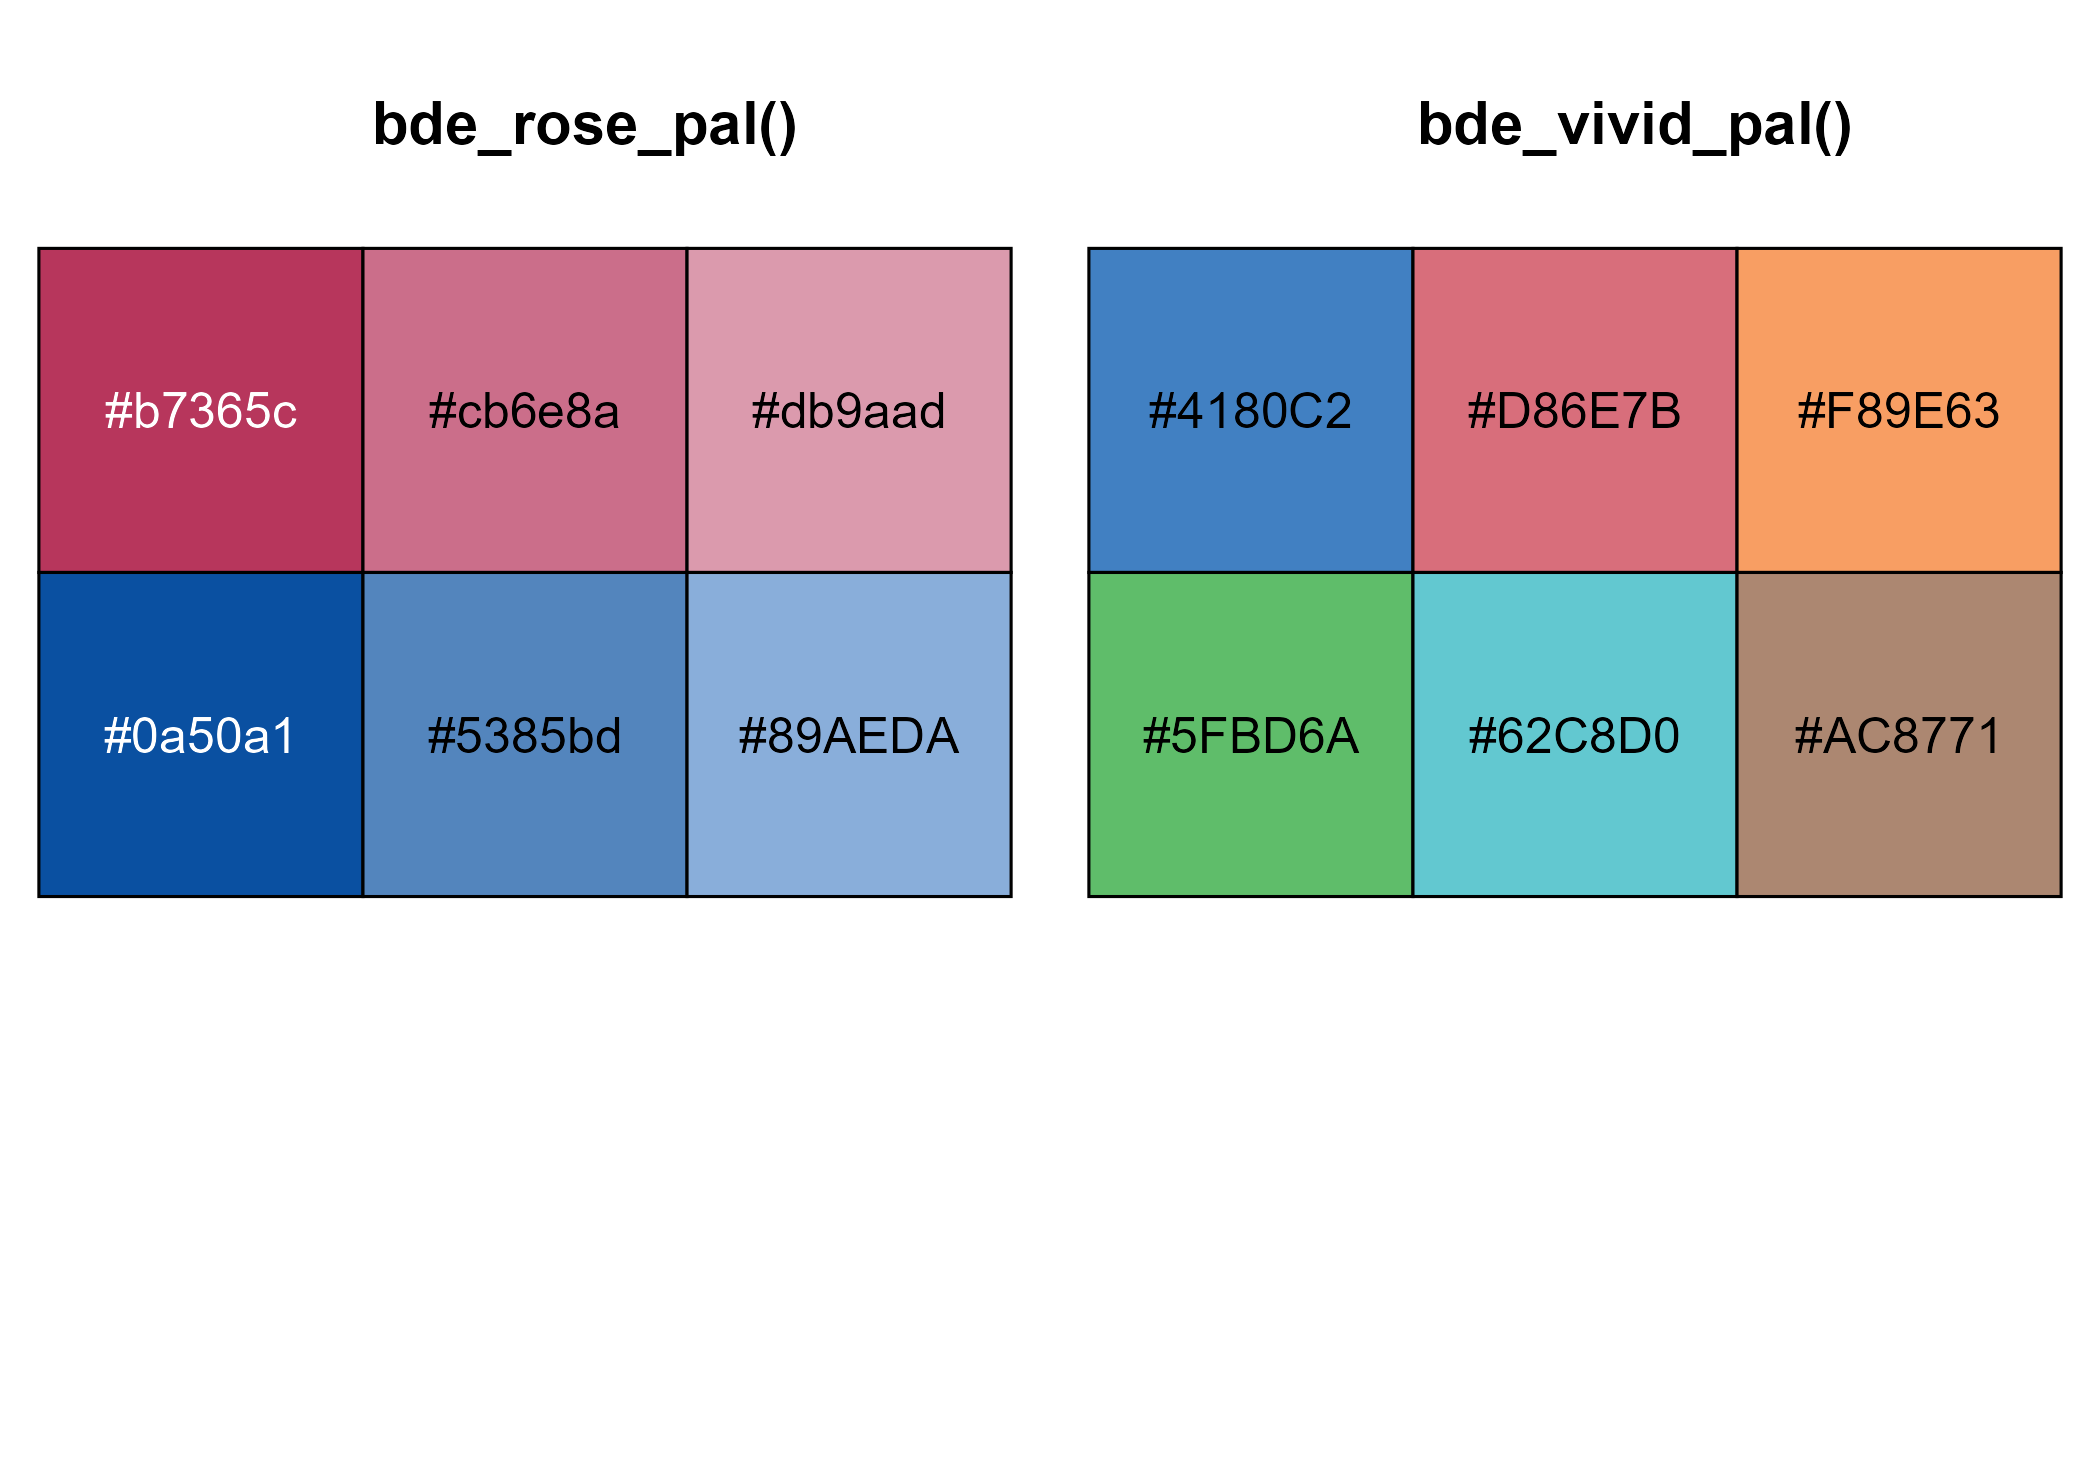
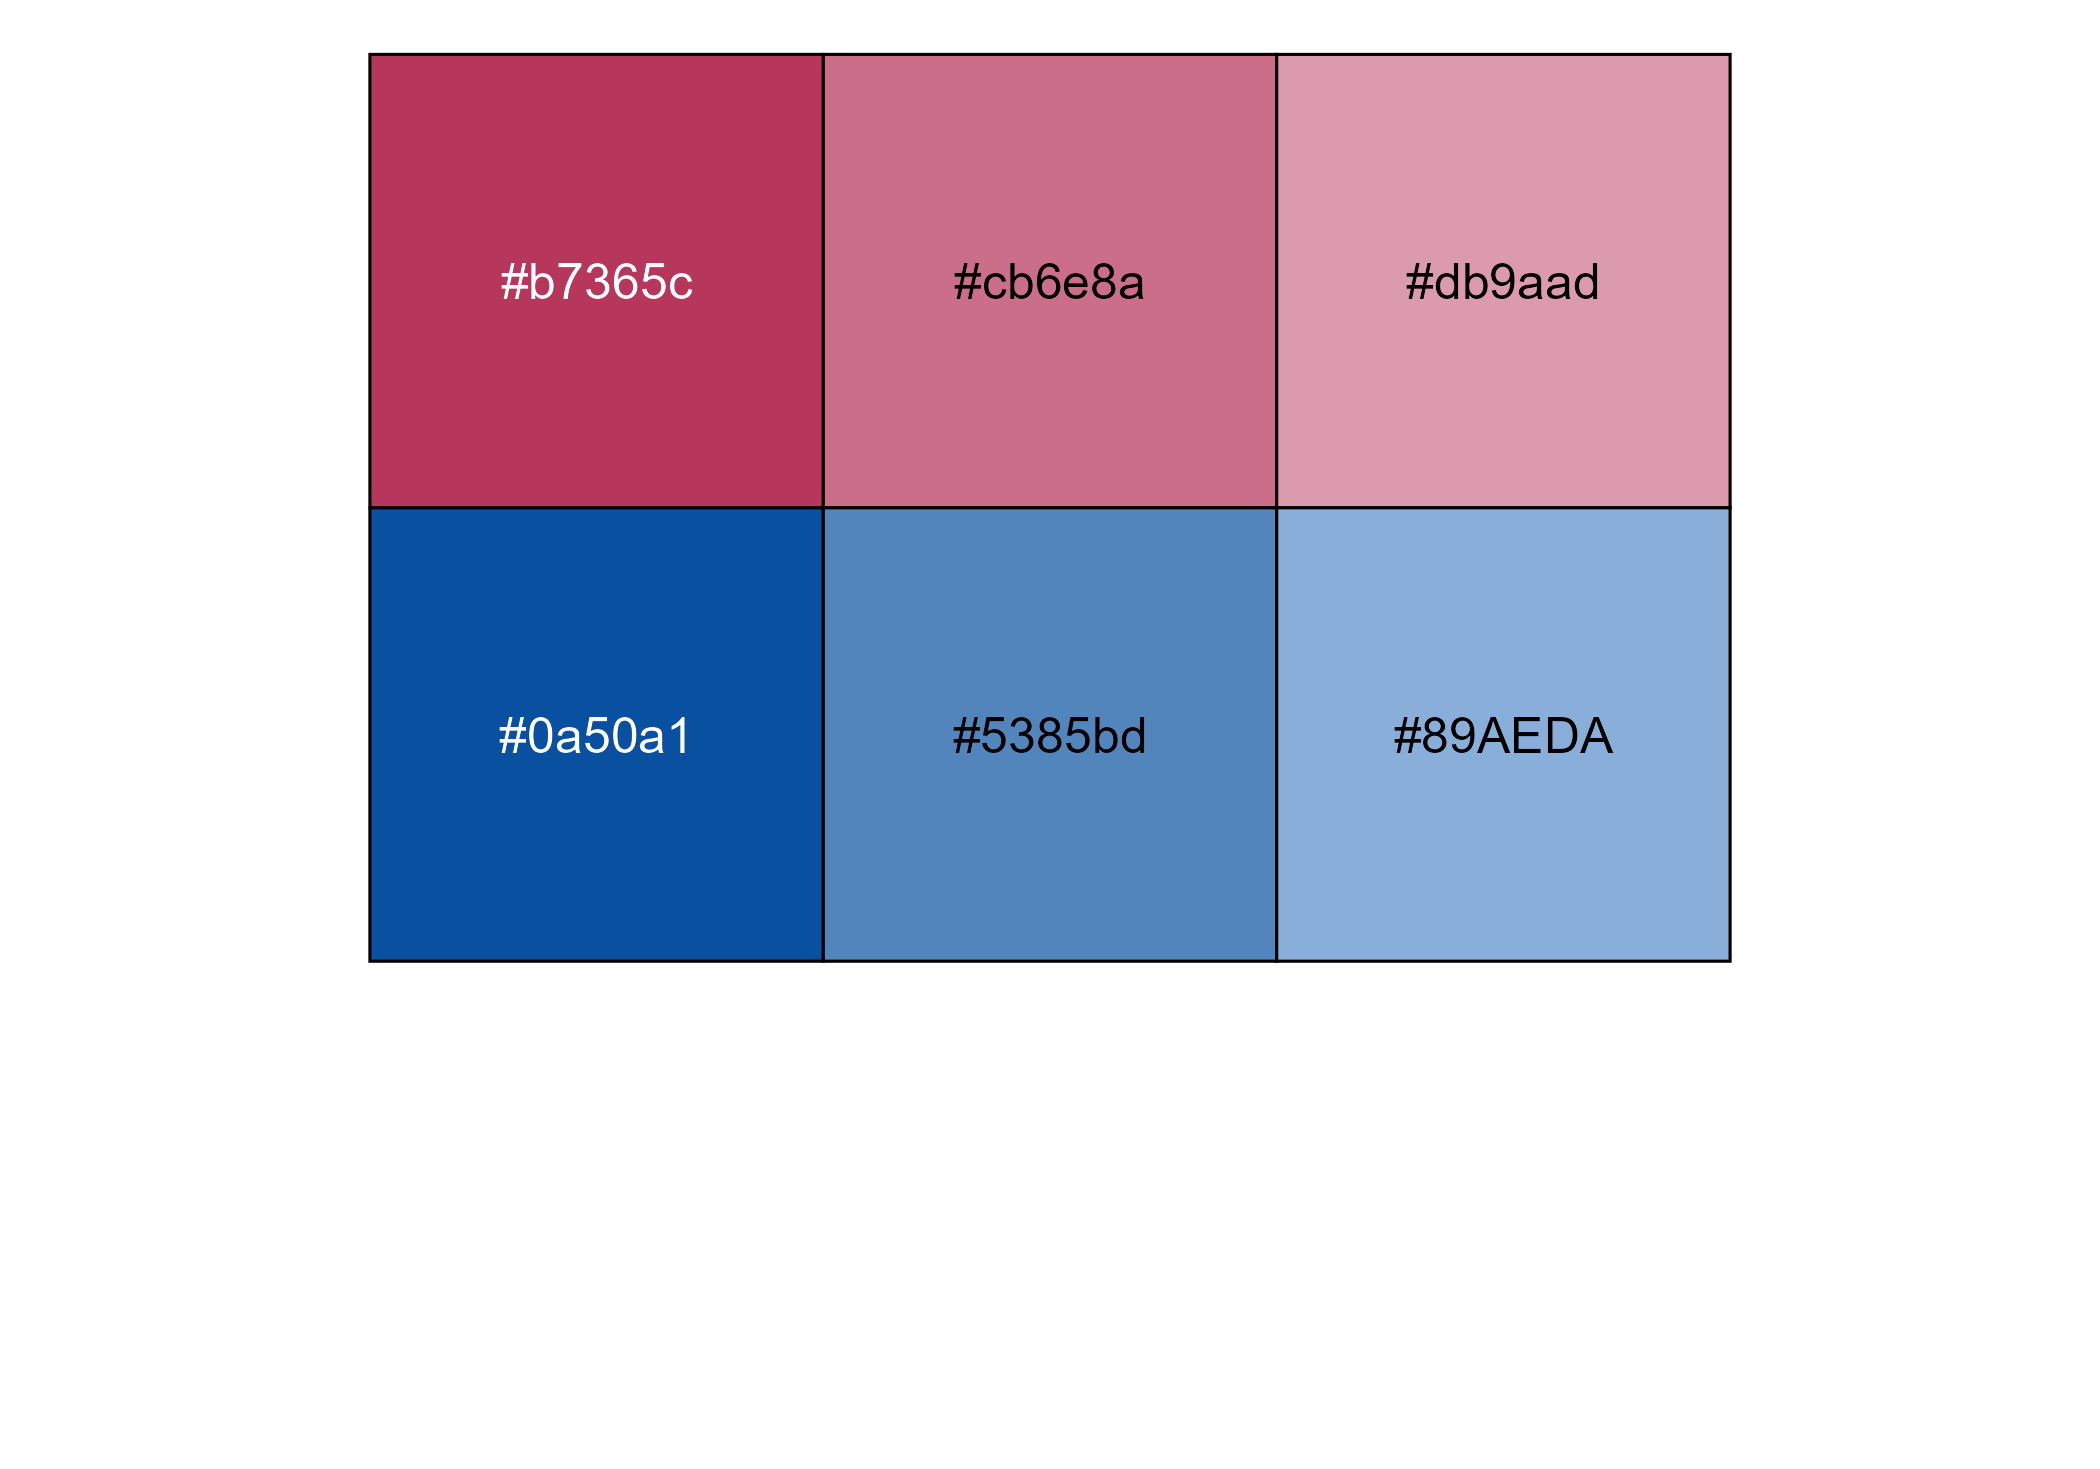
Bump version

diff --git a/README.md b/README.md
@@ -47,7 +47,6 @@ Alternatively, you can install the developing version of `tidyBdE` using
 the [r-universe](https://ropenspain.r-universe.dev/ui#builds):
 
 ``` r
-
 # Enable this universe
 options(repos = c(
   ropenspain = "https://ropenspain.r-universe.dev",
@@ -68,7 +67,6 @@ The basic entry point for searching time-series are the catalogs
 (*indexes*) of information. You can search any series by name:
 
 ``` r
-
 library(tidyBdE)
 
 # Load tidyverse for better handling
@@ -85,7 +83,7 @@ XR_GBP %>%
 ```
 
 | Numero\_secuencial | Descripcion\_de\_la\_serie                                         |
-| -----------------: | :----------------------------------------------------------------- |
+|-------------------:|:-------------------------------------------------------------------|
 |             573214 | Tipo de cambio. Libras esterlinas por euro (GBP/EUR).Datos diarios |
 
 **Note that BdE files are only provided in Spanish, for the time
@@ -97,7 +95,6 @@ exchange rate using the sequential number reference
 (`Numero_Secuencial`) as:
 
 ``` r
-
 
 seq_number <- XR_GBP %>%
   # First record
@@ -116,11 +113,12 @@ time_series <- bde_series_load(seq_number, series_label = "EUR_GBP_XR") %>%
   drop_na()
 ```
 
+### Plots
+
 The package also provides a custom `ggplot2` theme based on the
 publications of BdE:
 
 ``` r
-
 ggplot(time_series, aes(x = Date, y = EUR_GBP_XR)) +
   geom_line(colour = bde_vivid_pal()(1)) +
   geom_smooth(method = "gam", colour = bde_vivid_pal()(2)[2]) +
@@ -150,7 +148,6 @@ of the most relevant macroeconomic series, so there is no need to look
 for them in advance:
 
 ``` r
-
 gdp <- bde_ind_gdp_var("values")
 gdp$label <- "GDP YoY"
 
@@ -174,30 +171,27 @@ ggplot(plotseries, aes(x = Date, y = values)) +
 
 <img src="man/figures/README-macroseries-1.png" width="100%" />
 
+### Palettes
+
 Two custom palettes, based on the used by BdE on some publications are
 available.
 
 ``` r
 
-opar <- par(no.readonly = TRUE)
-
-par(mfrow = c(1, 2))
 scales::show_col(bde_rose_pal()(6))
-title("bde_rose_pal()")
-scales::show_col(bde_vivid_pal()(6))
-title("bde_vivid_pal()")
 ```
 
 <img src="man/figures/README-palettes-1.png" width="100%" />
 
 ``` r
-
-par(opar)
+scales::show_col(bde_vivid_pal()(6))
 ```
 
+<img src="man/figures/README-palettes-2.png" width="100%" />
+
 Those palettes can be applied to a `ggplot2` using some custom utils
-included on the package (see `help("scale_color_bde_d", package =
-"tidyBdE")`).
+included on the package (see
+`help("scale_color_bde_d", package = "tidyBdE")`).
 
 ``` r
 # Load GDP Series
@@ -296,12 +290,12 @@ bde_series_load("SOME ID", update_cache = TRUE)
 
 Other useful packages that provides access to Spanish open data:
 
-  - [**MicroDatosEs**](https://github.com/rOpenSpain/MicroDatosEs): A
+-   [**MicroDatosEs**](https://github.com/rOpenSpain/MicroDatosEs): A
     package that process microdata provided by Spanish statistical
     agencies (mostly, INE).
-  - [**CatastRo**](https://github.com/rOpenSpain/CatastRo): A package
+-   [**CatastRo**](https://github.com/rOpenSpain/CatastRo): A package
     that queries Sede electrónica del Catastro API.
-  - [**mapSpain**](https://ropenspain.github.io/mapSpain/): For
+-   [**mapSpain**](https://ropenspain.github.io/mapSpain/): For
     downloading geospatial information from Instituto Geográfico
     Nacional (IGN) and creating maps of Spain.
 
@@ -318,7 +312,7 @@ citation("tidyBdE")
 #> To cite tidyBdE in publications use:
 #> 
 #>   Herrero, D. H. (2021). tidyBdE: Download Data from Bank of Spain. R
-#>   package version 0.2.0. https://doi.org/10.5281/zenodo.4673496.
+#>   package version 0.2.0.9000. https://doi.org/10.5281/zenodo.4673496.
 #>   Package url: https://CRAN.R-project.org/package=tidyBdE
 #> 
 #> A BibTeX entry for LaTeX users is
@@ -327,7 +321,7 @@ citation("tidyBdE")
 #>     title = {tidyBdE: Download Data from Bank of Spain},
 #>     author = {D. H. Herrero},
 #>     year = {2021},
-#>     note = {R package version 0.2.0},
+#>     note = {R package version 0.2.0.9000},
 #>     doi = {10.5281/zenodo.4673496},
 #>     url = {https://CRAN.R-project.org/package=tidyBdE},
 #>   }

diff --git a/NEWS.md b/NEWS.md
@@ -1,3 +1,9 @@
+# tidyBdE (development version)
+
+-   Update docs and vignettes.
+-   `bde_series_load()` now tries to coerce characters to numeric.
+
+
 # tidyBdE 0.2.0
 -   Add series index article.
 -   Add new series: `bde_ind_gdp_quarterly()`, `bde_ind_population()`.
